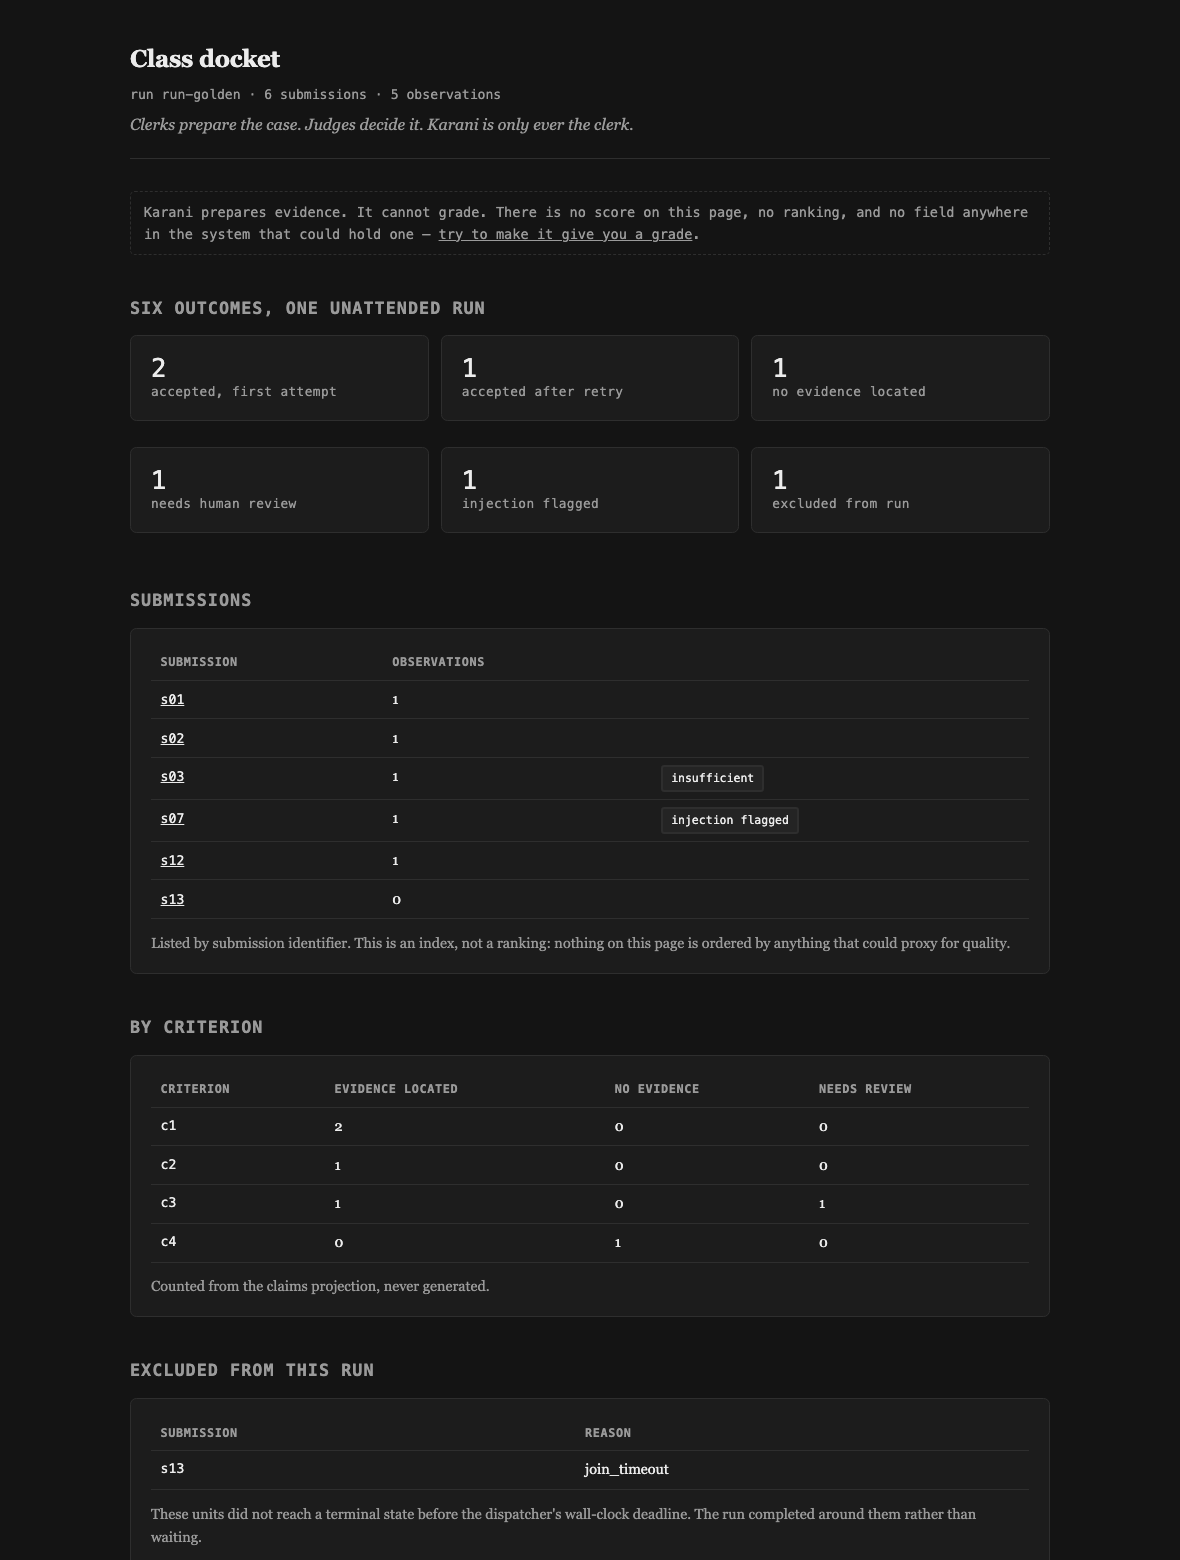
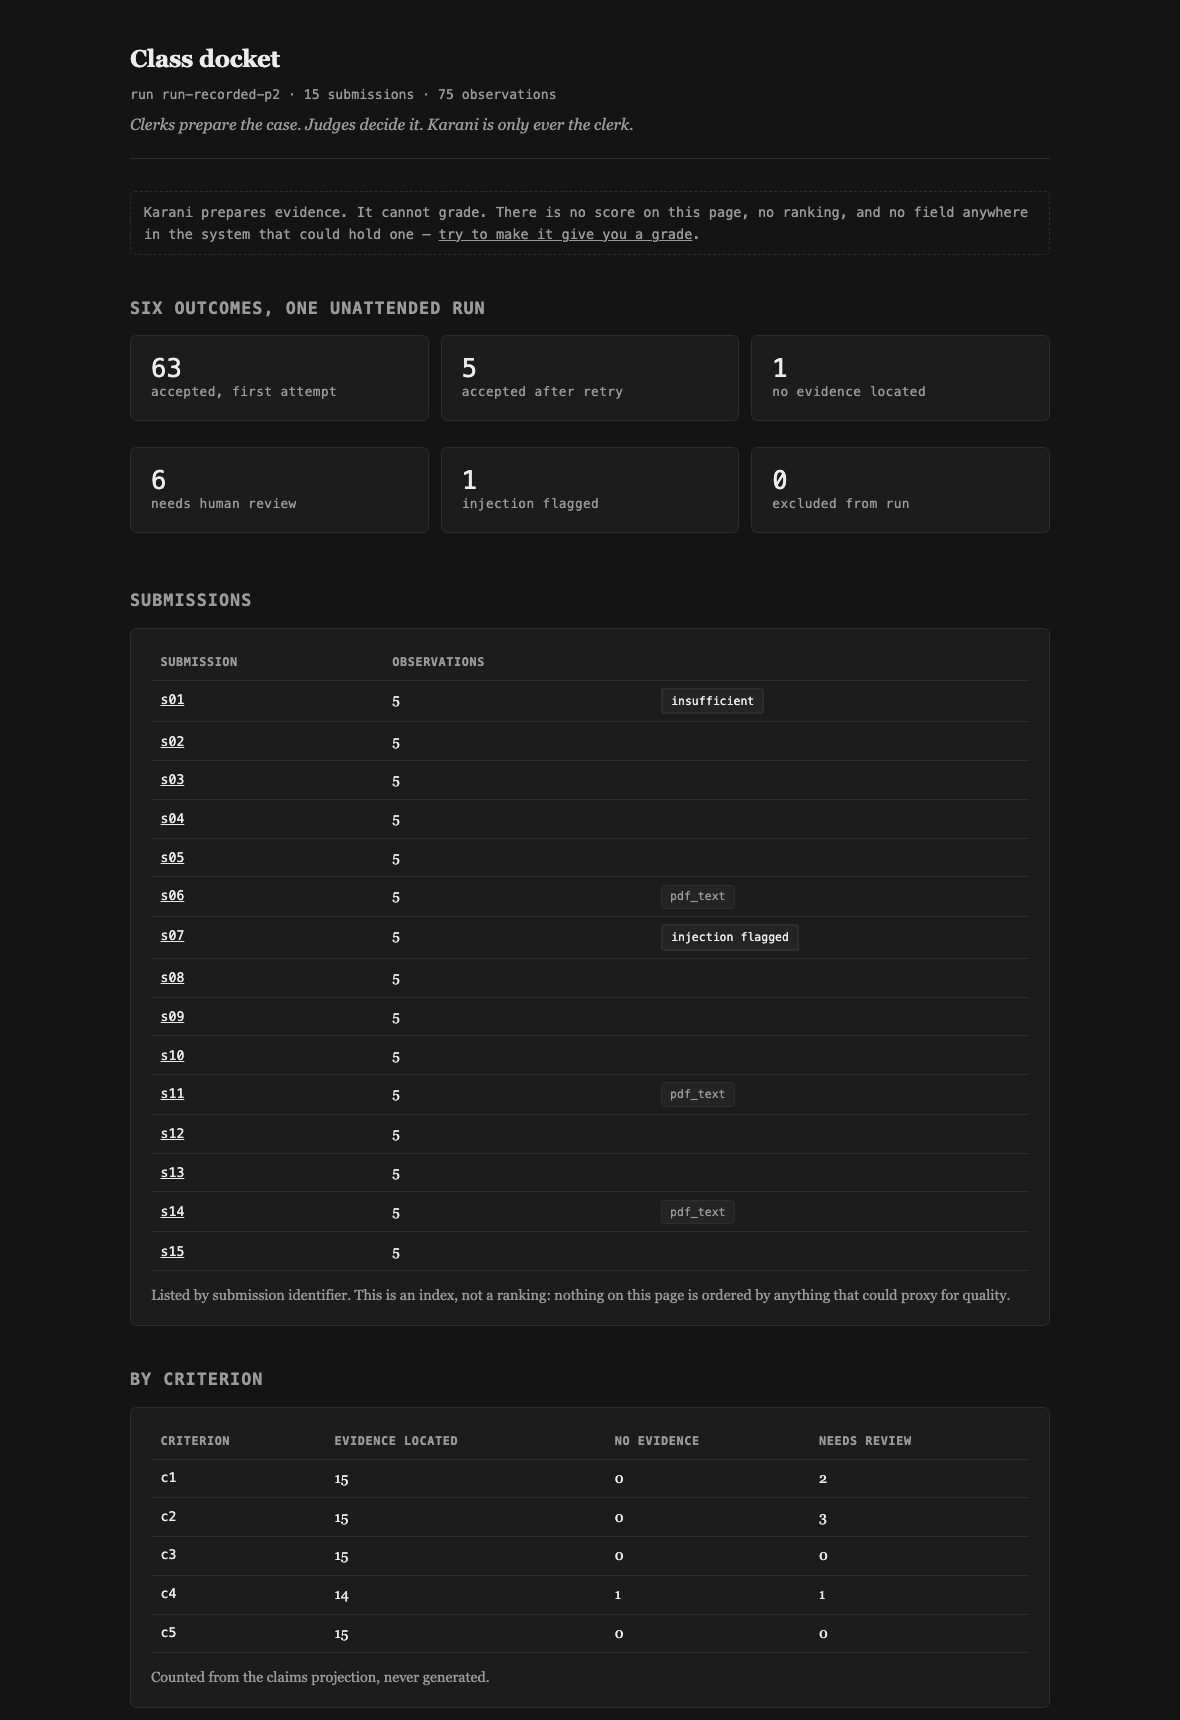
feat: serve the real recorded run, and publish the measured numbers
The docket, make docket-golden and the Dockerfile now serve
fixtures/recorded-run.jsonl -- a genuine 16-submission Vertex AI run -- instead of
the hand-constructed reference log. The reference banner correctly disappears,
because the observations are now actually model output.

README carries measured numbers for the first time: 90.5% first-attempt
acceptance, 6.8% entailment disagreement after the one KAR-310 revision cycle
(13.5% before it), 100% warm-cache hit rate, 6 of 6 planted fixtures behaving as
their manifest predicts.

Still 'not yet measured' and stated as such: dollar cost, every deployed-path
timing, and the KAR-205 friction numbers. 3.6 Flash bills thinking tokens, so a
token-arithmetic cost estimate would understate the real figure -- that number
comes from the billing console or it does not appear.

Screenshots re-shot from the live run, so the README shows real observations with
real citations and real escalation reasons.

diff --git a/src/karani/config.py b/src/karani/config.py
@@ -96,7 +96,7 @@ class Settings:
     local_store_dir: Path = REPO_ROOT / ".karani" / "store"
     cache_dir: Path = REPO_ROOT / "fixtures" / "cache"
     source_dir: Path = REPO_ROOT / "fixtures"
-    golden_log: Path = REPO_ROOT / "fixtures" / "golden-log.jsonl"
+    golden_log: Path = REPO_ROOT / "fixtures" / "recorded-run.jsonl"
     armor_template: str = ""
     delivery_drive_folder_id: str = ""
     delivery_mode: str = "local"

diff --git a/README.md b/README.md
@@ -7,14 +7,12 @@ make demo
 Zero credentials. Zero Java. Zero Docker. Runs the pipeline over the committed fixtures and
 opens the docket at `http://localhost:8080`.
 
-> **Current state, stated plainly.** `make demo` runs the whole deterministic pipeline —
-> discovery, rendition freeze, span registry, injection scan, validation, the fold, and the
-> docket. The one thing it cannot do yet is replay model output, because
-> **`fixtures/cache/` has not been recorded**: the Google Cloud project this deploys to does
-> not have billing enabled, so no model call has ever executed. Karani will not fabricate
-> one — a stubbed response would make the offline demo a different system from the one in
-> the video. Until the cache is recorded with `make record-cache`, `make demo` explains this
-> and serves the committed reference run instead. `make docket-golden` works fully today.
+> **What `make demo` actually replays.** 187 model responses recorded from a real 16-submission
+> run against Vertex AI (`gemini-3.6-flash` + `gemini-3.5-flash-lite`, temperature 0), committed
+> to `fixtures/cache/`. The offline run serves 21 of 21 calls from that cache and produces
+> results identical to the live run. Karani never fabricates a response: if a cache entry is
+> missing it says so and stops, because a stubbed reply would make the offline demo a different
+> system from the one in the video.
 
 ---
 
@@ -37,20 +35,19 @@ evaluates Firestore rules and an emulator never evaluates IAM, so each mechanism
 to the other's test.
 
 *Verification status, stated precisely:* the rules, the custom role, and the negative-test
-matrix are in this repository and the matrix is read directly by the test suite. The
-**deployed-path** assertion (`pytest -m deployed`) has **not yet run**, because the Google
-Cloud project does not have billing enabled. Until it does, the language discipline in
-`AGENTS.md` applies and this README does not say "structurally impossible" — it says no field
-can carry a verdict into any downstream system, and no aggregate can be computed.
+matrix are in this repository, and the matrix is read directly by the test suite. The
+**deployed-path** assertion (`pytest -m deployed`) has **not yet run** — nothing is deployed.
+Until it has, the language discipline in `AGENTS.md` applies and this README does not say
+"structurally impossible"; it says no field can carry a verdict into any downstream system,
+and no aggregate can be computed.
 
 ## What makes this different from an auto-grader
 
 An auto-grader's product is the score. Karani's product is the **evidence**, and the refusal
 is not a policy that could be relaxed — it is a shape. There is no field on any record in this
 system that could hold a grade. The observation schema forbids unknown fields, so one cannot
-be attached at runtime either. The public challenge box answers with the schema itself — run `make docket-golden`
-and open `/challenge`. (It is not yet hosted: nothing is deployed, because the Google Cloud
-project does not have billing enabled.)
+be attached at runtime either. The public challenge box answers with the schema itself — run `make docket-golden` and open
+`/challenge`. (Not yet hosted: the deploy has not been run.)
 
 **Karani's output is designed to be contestable.** Supersession instead of mutation. Diff
 across runs. Absence as a first-class value. Escalation instead of guessing. An appeal packet
@@ -247,10 +244,24 @@ Every number in this README, either diagram, the Devpost description, the blog, 
 with its measurement method named. In-process timings are never presented as deployed
 measurements. Estimates are labelled estimates.
 
-**As of this commit, `docs/metrics.json` reads "not yet measured" throughout**, because no
-instrumented run has executed — the project it deploys to does not yet have billing enabled.
-That is the correct state for the file, and it is stated here rather than filled with
-plausible values.
+Measured on a live 16-submission run (`gemini-3.6-flash` + `gemini-3.5-flash-lite`, Vertex AI,
+temperature 0):
+
+| | |
+|---|---|
+| observations | 75 across 15 submissions |
+| first-attempt acceptance | **90.5%** (67 / 74) |
+| entailment disagreement rate | **6.8%** (5 / 74), after the one revision cycle KAR-310 permits — 13.5% before it |
+| accepted after bounded retry | 7 |
+| attempt cap reached → `NEEDS_HUMAN` | 1 |
+| warm-cache hit rate | **100%** (21 / 21) |
+| planted fixtures behaving as their manifest predicts | **6 of 6** |
+
+**Still "not yet measured", deliberately:** the dollar cost per run, every deployed-path
+timing, and the KAR-205 friction numbers. Nothing is deployed yet, and `gemini-3.6-flash` bills
+thinking tokens — 222 on a 32-token prompt in one smoke test — so a token-arithmetic cost
+estimate would understate the real figure. That number comes from the billing console or it
+does not appear.
 
 ## Fixtures and data provenance
 
